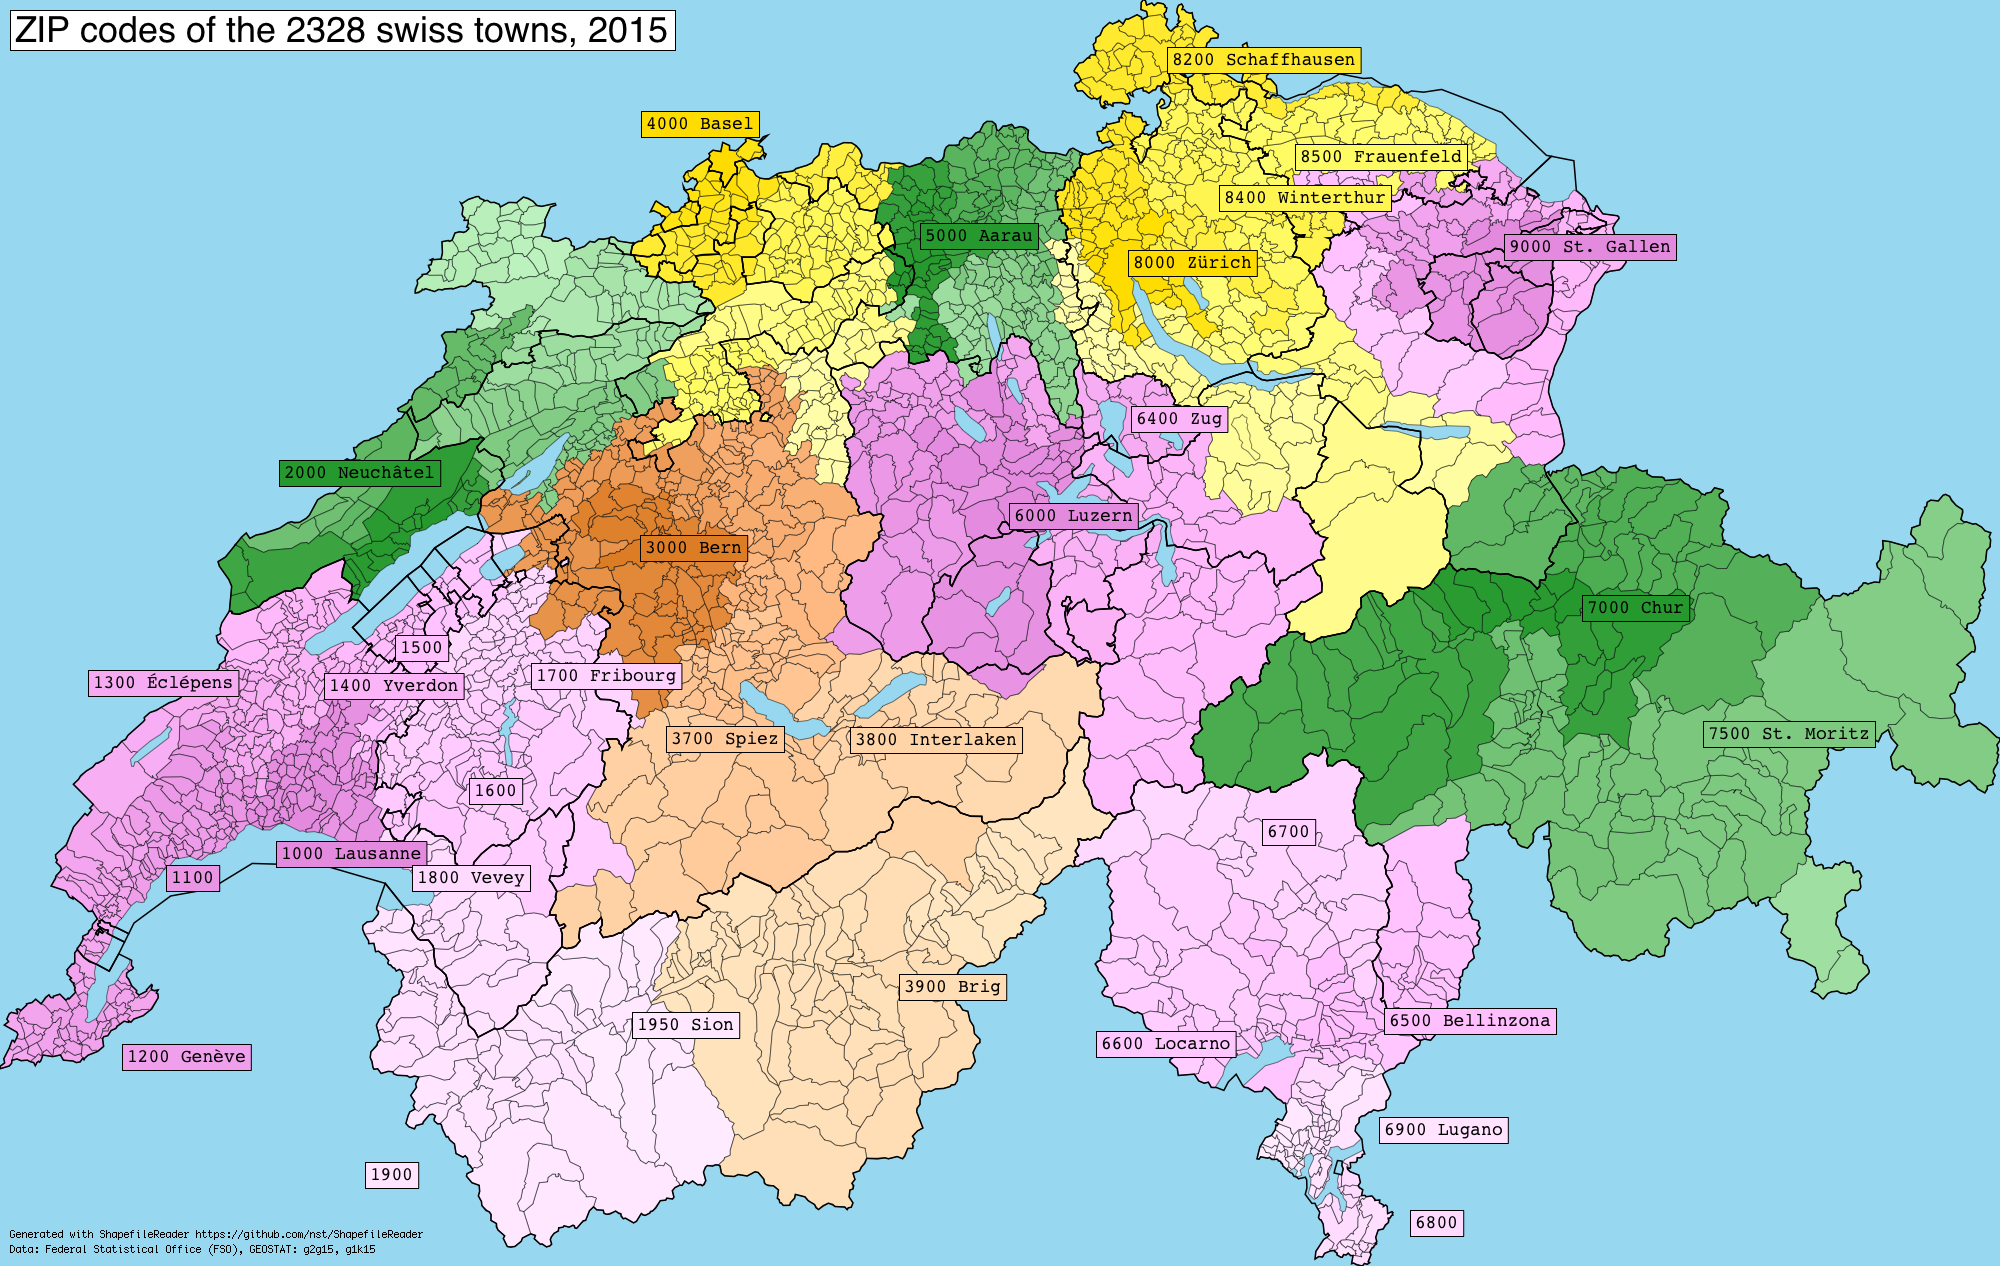
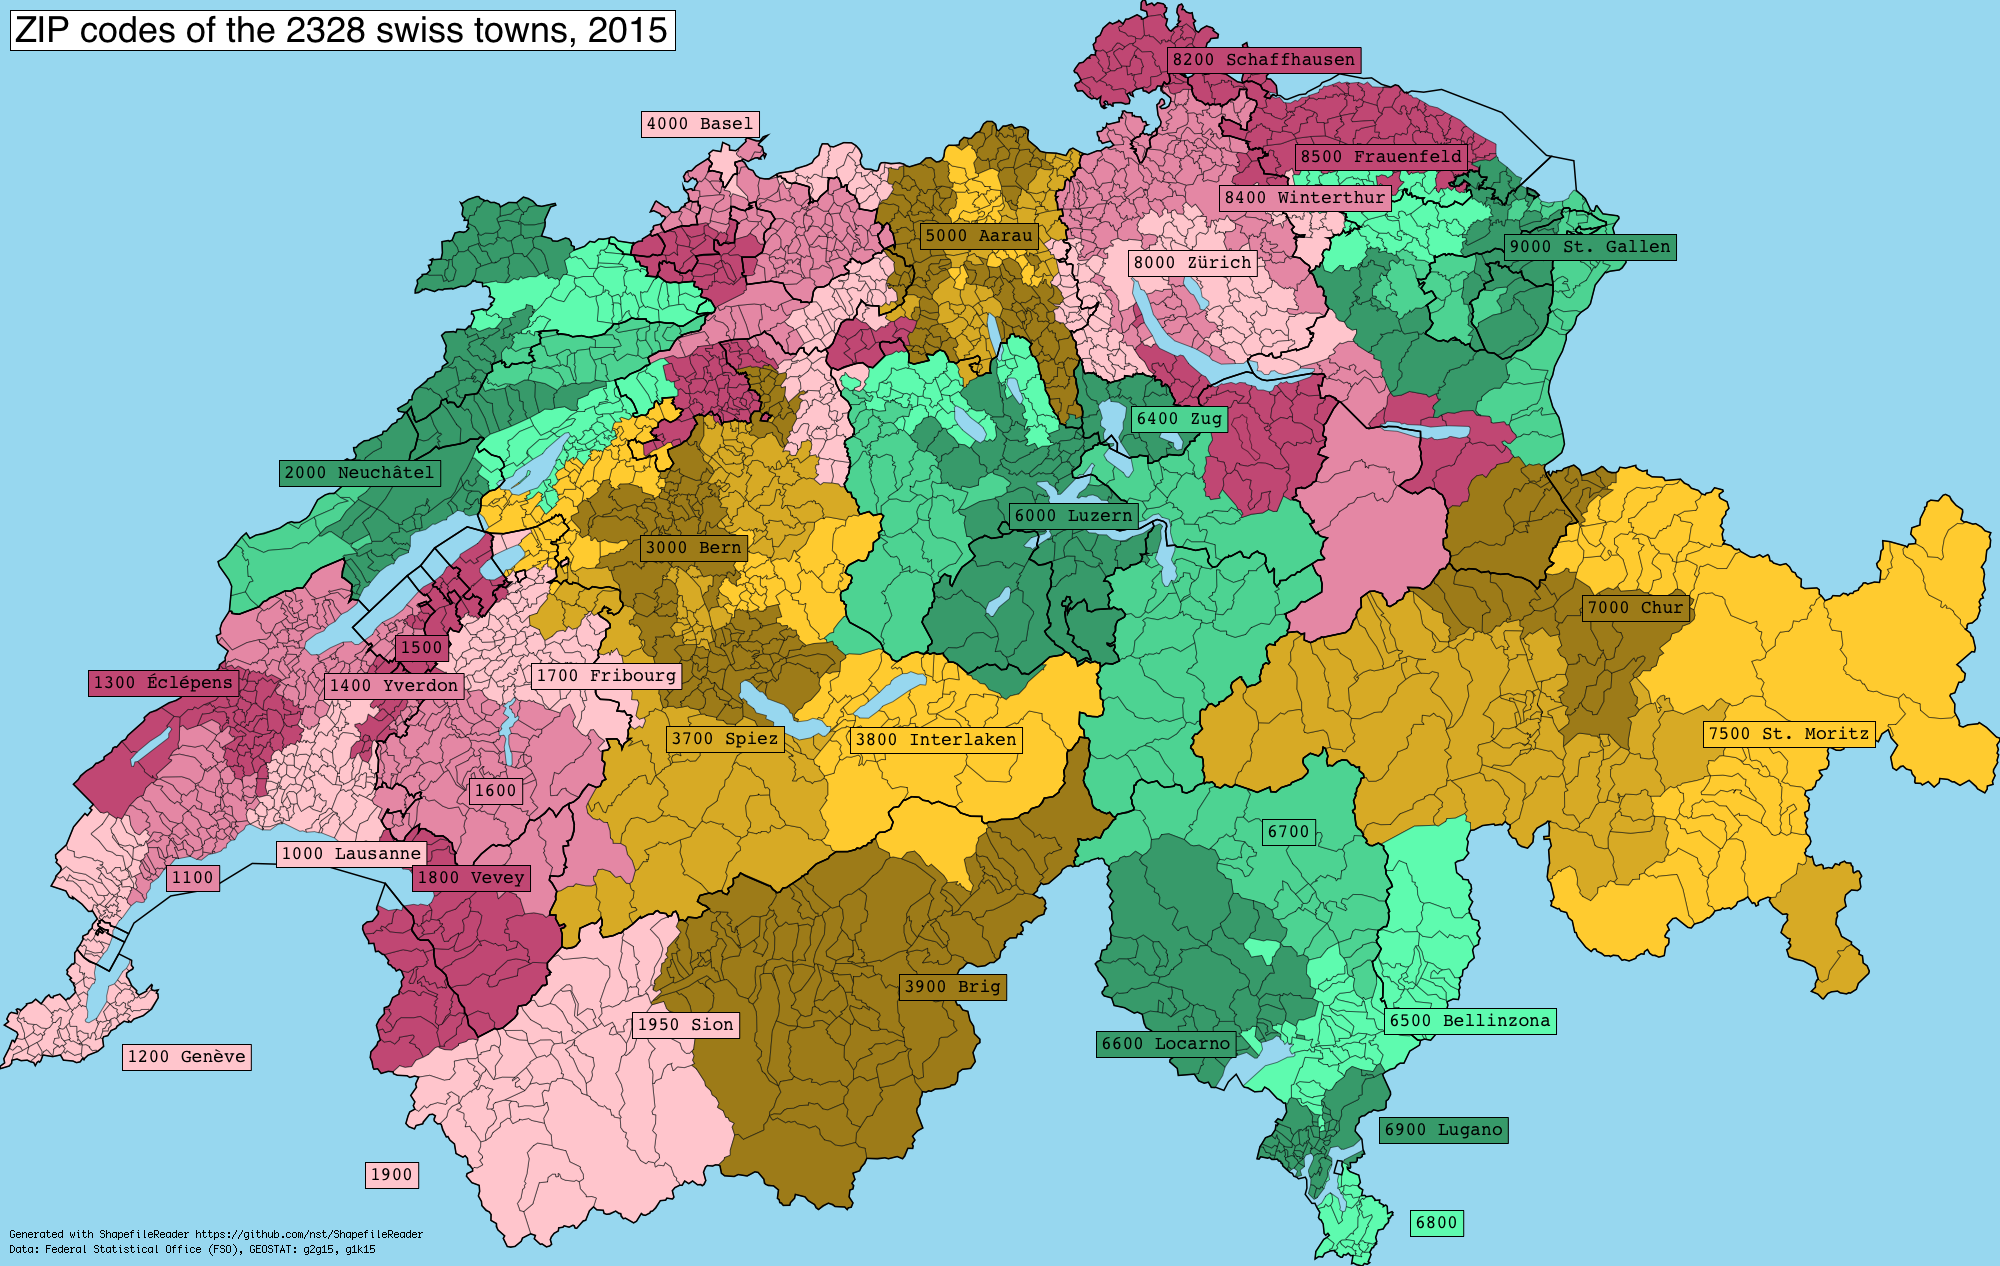
final take for Switzerland zip?

diff --git a/Shapefile/main.swift b/Shapefile/main.swift
@@ -80,36 +80,101 @@ func zipForTownCodeDictionary() -> [Int:(Int,String)] {
     return d
 }
 
+func paletteForColorNumber(n:Int) -> (NSColor, NSColor, NSColor) {
+    assert(0...3 ~= n)
+    
+    switch(n) {
+    case 0:
+        return ("LightPink".color, "PaleVioletRed".color, "Maroon".color)
+    case 1:
+        return ("SeaGreen4".color, "SeaGreen3".color, "SeaGreen1".color)
+    case 2:
+        return ("GoldenRod4".color, "GoldenRod3".color, "GoldenRod1".color)
+    case 3:
+        return ("SkyBlue4".color, "SkyBlue3".color, "SkyBlue1".color)
+    default:
+        assertionFailure()
+    }
+    
+    return ("black".color, "black".color, "black".color)
+}
 
 func colorForZIP(zip:Int) -> NSColor {
     
-    var color = "black".color
+    var color : NSColor
     
     let s = String(zip)
     
-    if s.hasPrefix("1") { color = "orchid".color } else
-    if s.hasPrefix("2") { color = "forestGreen".color } else
-    if s.hasPrefix("3") { color = "chocolate".color } else
-    if s.hasPrefix("4") { color = "gold".color } else
-    if s.hasPrefix("5") { color = "forestGreen".color } else
-    if s.hasPrefix("6") { color = "orchid".color } else
-    if s.hasPrefix("7") { color = "forestGreen".color } else
-    if s.hasPrefix("8") { color = "gold".color } else
-    if s.hasPrefix("9") { color = "orchid".color }
-    
-    let factor = Double(zip % 1000) / 1000.0
+    switch((s as NSString).substringToIndex(2)) {
+    case "10", "12", "17", "19":
+        color = paletteForColorNumber(0).0
+    case "11", "14", "16":
+        color = paletteForColorNumber(0).1
+    case "13", "15", "18":
+        color = paletteForColorNumber(0).2
+    case "20", "23", "26", "29":
+        color = paletteForColorNumber(1).0
+    case "21", "24", "27":
+        color = paletteForColorNumber(1).1
+    case "22", "25", "28":
+        color = paletteForColorNumber(1).2
+    case "30", "33", "36", "39":
+        color = paletteForColorNumber(2).0
+    case "31", "34", "37":
+        color = paletteForColorNumber(2).1
+    case "32", "35", "38":
+        color = paletteForColorNumber(2).2
+    case "40", "43", "46", "49":
+        color = paletteForColorNumber(0).0
+    case "41", "44", "47":
+        color = paletteForColorNumber(0).1
+    case "42", "45", "48":
+        color = paletteForColorNumber(0).2
+    case "50", "53", "56", "59":
+        color = paletteForColorNumber(2).0
+    case "51", "54", "57":
+        color = paletteForColorNumber(2).1
+    case "52", "55", "58":
+        color = paletteForColorNumber(2).2
+    case "60", "63", "66", "69":
+        color = paletteForColorNumber(1).0
+    case "61", "64", "67":
+        color = paletteForColorNumber(1).1
+    case "62", "65", "68":
+        color = paletteForColorNumber(1).2
+    case "70", "73", "76", "79":
+        color = paletteForColorNumber(2).0
+    case "71", "74", "77":
+        color = paletteForColorNumber(2).1
+    case "72", "75", "78":
+        color = paletteForColorNumber(2).2
+    case "80", "83", "86", "89":
+        color = paletteForColorNumber(0).0
+    case "81", "84", "87":
+        color = paletteForColorNumber(0).1
+    case "82", "85", "88":
+        color = paletteForColorNumber(0).2
+    case "90", "93", "96", "99":
+        color = paletteForColorNumber(1).0
+    case "91", "94", "97":
+        color = paletteForColorNumber(1).1
+    case "92", "95", "98":
+        color = paletteForColorNumber(1).2
+    default:
+        color = "black".color
+    }
     
     let (r,g,b) = (color.redComponent, color.greenComponent, color.blueComponent)
     
-    let r2 : CGFloat = r + (0.8 - r/2.0) * factor*0.8
-    let g2 : CGFloat = g + (0.8 - g/2.0) * factor*0.8
-    let b2 : CGFloat = b + (0.8 - b/2.0) * factor*0.8
-
-//    let r2 : CGFloat = r + (1.0 - r) * factor*0.85
-//    let g2 : CGFloat = g + (1.0 - g) * factor*0.85
-//    let b2 : CGFloat = b + (1.0 - b) * factor*0.85
-
-    return NSColor(calibratedRed:r2, green:g2, blue:b2, alpha:1.0)
+    //    let r2 : CGFloat = r + (0.8 - r/2.0) * factor*0.8
+    //    let g2 : CGFloat = g + (0.8 - g/2.0) * factor*0.8
+    //    let b2 : CGFloat = b + (0.8 - b/2.0) * factor*0.8
+    
+    //    let r2 : CGFloat = r + (1.0 - r) * factor*0.85
+    //    let g2 : CGFloat = g + (1.0 - g) * factor*0.85
+    //    let b2 : CGFloat = b + (1.0 - b) * factor*0.85
+    
+    return NSColor(calibratedRed:r, green:g, blue:b, alpha:1.0)
 }
 
 func drawZipLabel(b:BitmapCanvas, _ zip:Int, _ p:CGPoint, _ name:String?=nil) {
@@ -128,22 +193,27 @@ func drawZipLabel(b:BitmapCanvas, _ zip:Int, _ p:CGPoint, _ name:String?=nil) {
 
 func printZipDistribution(zipForTownCode:[Int:(Int,String)]) {
     var d : [Int:Int] = [:]
-
+    
     print("--", zipForTownCode[4284])
-
+    
     for i in 1...9 {
-        d[i] = 0
+        for j in 0...9 {
+            let n = i*10 + j
+            d[n] = 0
+        }
     }
-
+    
     for (_,(zip,_)) in zipForTownCode {
-        let shortZip = zip / 1000
+        let shortZip = zip / 100
         d[shortZip]? += 1
     }
-
-    let a = d.sort {$1.1 < $0.1}
+    
+    let a = d.sort {$1.0 < $0.0}
     
     for t in a {
-        print(t)
+        if t.1 != 0 {
+            print(t)
+        }
     }
 }
 
@@ -175,7 +245,7 @@ func drawZIPCodes() {
         var color = "black".color
         if let (zip, _) = zipForTownCode[n] {
             //if zip != 1950 { continue }
-
+            
             color = colorForZIP(zip)
         } else {
             print("-- cannot find zip for town \(record)")
@@ -213,7 +283,7 @@ func drawZIPCodes() {
     drawZipLabel(b, 3900, P(899,974), "Brig")
     
     drawZipLabel(b, 4000, P(641,111), "Basel")
-
+    
     drawZipLabel(b, 5000, P(920,223), "Aarau")
     
     drawZipLabel(b, 6000, P(1009,503), "Luzern")
@@ -226,7 +296,7 @@ func drawZIPCodes() {
     
     drawZipLabel(b, 7000, P(1582,595), "Chur")
     drawZipLabel(b, 7500, P(1703,721), "St. Moritz")
-
+    
     drawZipLabel(b, 8000, P(1128,250), "Zürich")
     drawZipLabel(b, 8200, P(1167,47), "Schaffhausen")
     drawZipLabel(b, 8400, P(1219,185), "Winterthur")
